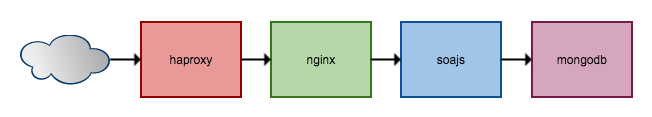
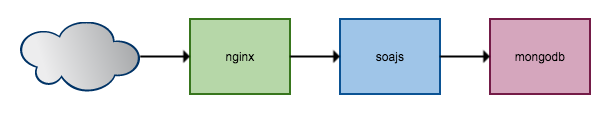
updated technologies images, updated all in one

diff --git a/sections/documentation/deployment/all-in-one.html b/sections/documentation/deployment/all-in-one.html
@@ -22,6 +22,11 @@
 		Once Docker is installed, use it to download and install the pre-configured all in one image of SOAJS.
 		<pre><code class="bash">$ docker run --name soajs-allinone --link soajs-allinone-link</code>
 		</pre>
+		<div class="redFlag">
+			do we want to use docker compose as well?<br />
+			if yes maybe we can put the docker.yml file in soajs.utilities/deployment/allinone/docker.yml
+		</div><br />
+
 		When you install SOAJS all in one via Docker, all the configuration steps are taken care of and SOAJS should run right after installation. To learn more about the configuration steps, please jump to the configuration section below where we explain how to configure the servers, the database, nginx ... etc in detail. The configuration can be updated at any time and regardless of the installation method used. This way you will be able to modify the configuration created via Docker installation or after manual installation.
 	</p>
 	<br />
@@ -36,11 +41,7 @@ $ apt-get install mongodb
 $ apt-get install nodejs
 
 # install Nginx latest stable version
-$ apt-get install nginx
-
-# install HAproxy latest stable version
-$ apt-get install haproxy
-		</code>
+$ apt-get install nginx</code>
 	</pre>
 	<p>
 		Now that the needed technologies are installed, we suggest you create the following folder schema to place SOAJS and its components:
@@ -154,29 +155,13 @@ tenants
 		When the hosts file is loaded in gEdit editor, add the following:
 		<pre><code class="javascript">127.0.0.1	api.soajs.org
 127.0.0.1	dashboard.soajs.org</code></pre>
+		<em>You can also copy these entries from soajs.utilities/deployment/allinone/hosts to your /etc/hosts file.</em><br />
 		Go ahead and Start Nginx Now:
 		<pre><code class="bash">$ sudo Nginx</code></pre>
 		When Nginx starts, test the configuration you just created by opening your browser and invoking 2 domains: <b>api.soajs.org</b> and <b>dashboard.soajs.org</b>. Nginx will reply with a <b>502 Bad Gateway</b> Error instead of Server not Found. Till this point, this is normal because we haven't started any service yet, but the important thing is that Nginx is now redirecting the requests to a local SOAJS server assuming that the later is up and running.
 	</p>
 	<br/>
-	<h4>Step 3: HAproxy</h4>
-	<p>
-		In the first step we installed HAproxy which is a proxy to balance, redirect, forward and manipulate the incoming traffic. HAproxy is basically used in the case of cloud architecture; to distribute the load on multiple nodes and balance the traffic. Using HAproxy on one machine is kind of irrelevant but when you want to replicate the same architecture you have on your production server, it is good to have everything installed and running so you can track and pinpoint all issues that you are facing on production which is our case here.<br /><br />
-		Configure HAproxy requires little effort. Since we already installed soajs.utilities, just navigate to soajs.utilities/deployment/allinone/. Locate your haproxy.cfg, on Ubuntu it is usually located at /etc/haproxy/haproxy.cfg, rename the default configuration file haproxy.cfg and copy the one in soajs.utilities, then start HAproxy.
-		<pre><code class="bash"># go to all in one folder
-$ cd soajs.utilities/deployment/allinone/
-
-# rename default config file
-$ mv /etc/haproxy/haproxy.cfg /etc/haproxy/haproxy.bckp.cfg
-
-# copy soajs.utilities haproxy to /etc/haproxy/
-$ cp ./haproxy.cfg /etc/haproxy/
-
-# start haproxy
-$ service haproxy start</code></pre>
-	</p>
-	<br/>
-	<h4>Step 4: SOAJS Services</h4>
+	<h4>Step 3: SOAJS Services</h4>
 	<p>
 		So far we configured all the prerequisites that SOAJS needs to work and tested them. Let's start the services one at a time:
 		<pre><code class="bash">#navigate to soajs.controller in a new terminal
@@ -198,7 +183,7 @@ $ node .</code>
 		When you run node . in every terminal you opened to start the above service, the terminal cannot be close or the service will stop running. All four services are now running, let's make some test calls and when done, use the dashboard to login.
 	</p>
 	<br/>
-	<h4>Step 5: Testing the services</h4>
+	<h4>Step 4: Testing the services</h4>
 	<p>
 		We mentioned in the <a href="#/documentation/services/controller">Controller</a> section that you can run a maintenance check on any service built with SOAJS. When a service starts, it will listen to two ports: the default port and the maintenance port.<br />
 		Let's run some maintenance heartbeat requests to see the status of our services:
